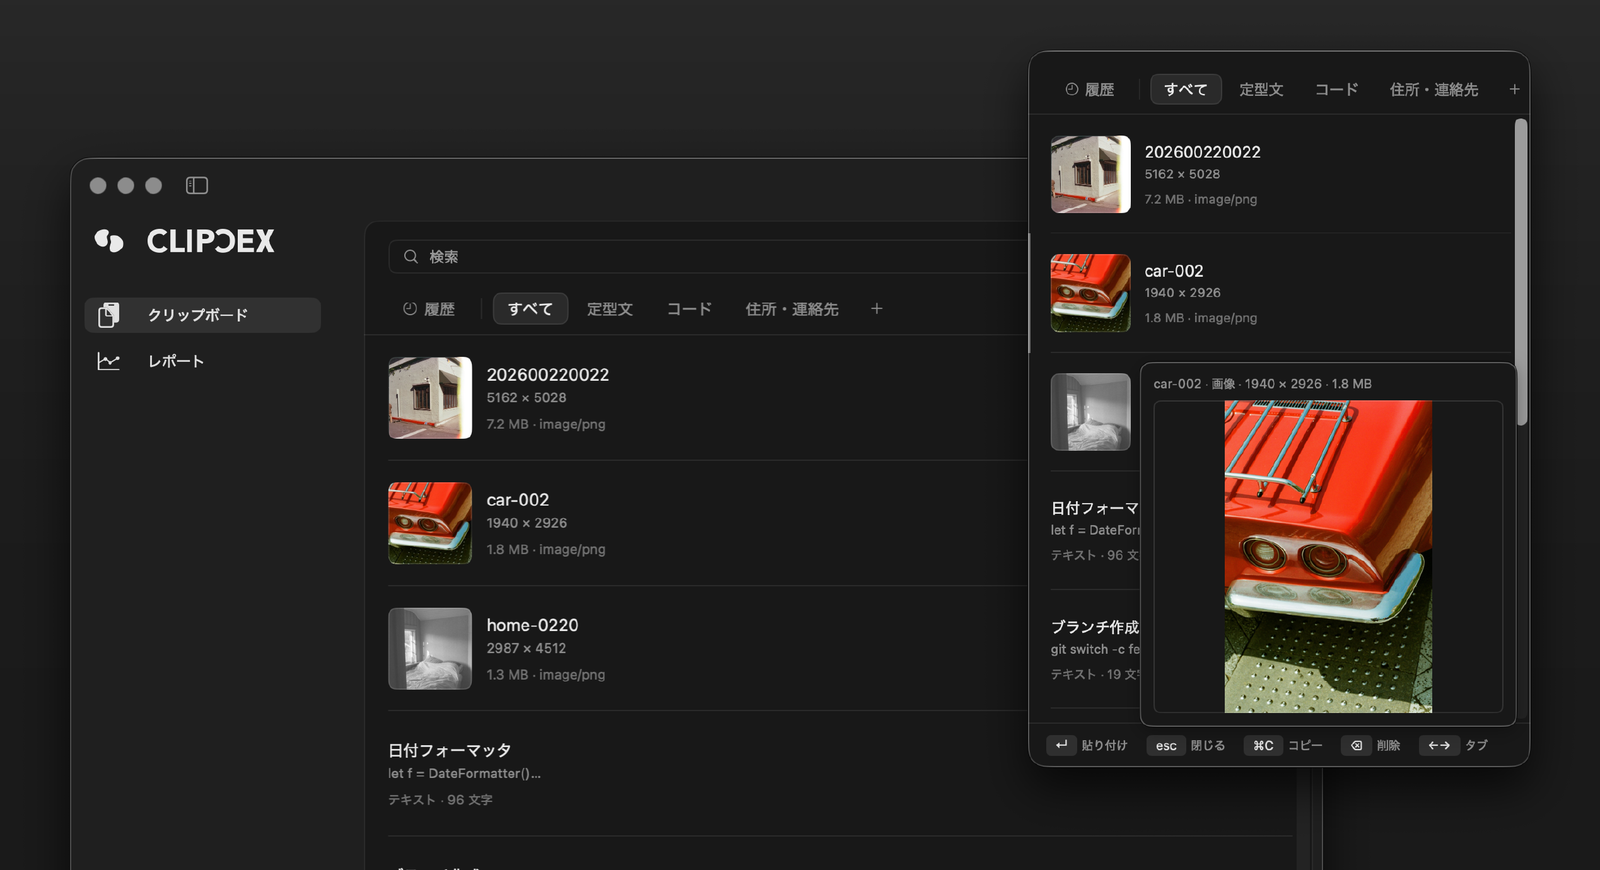
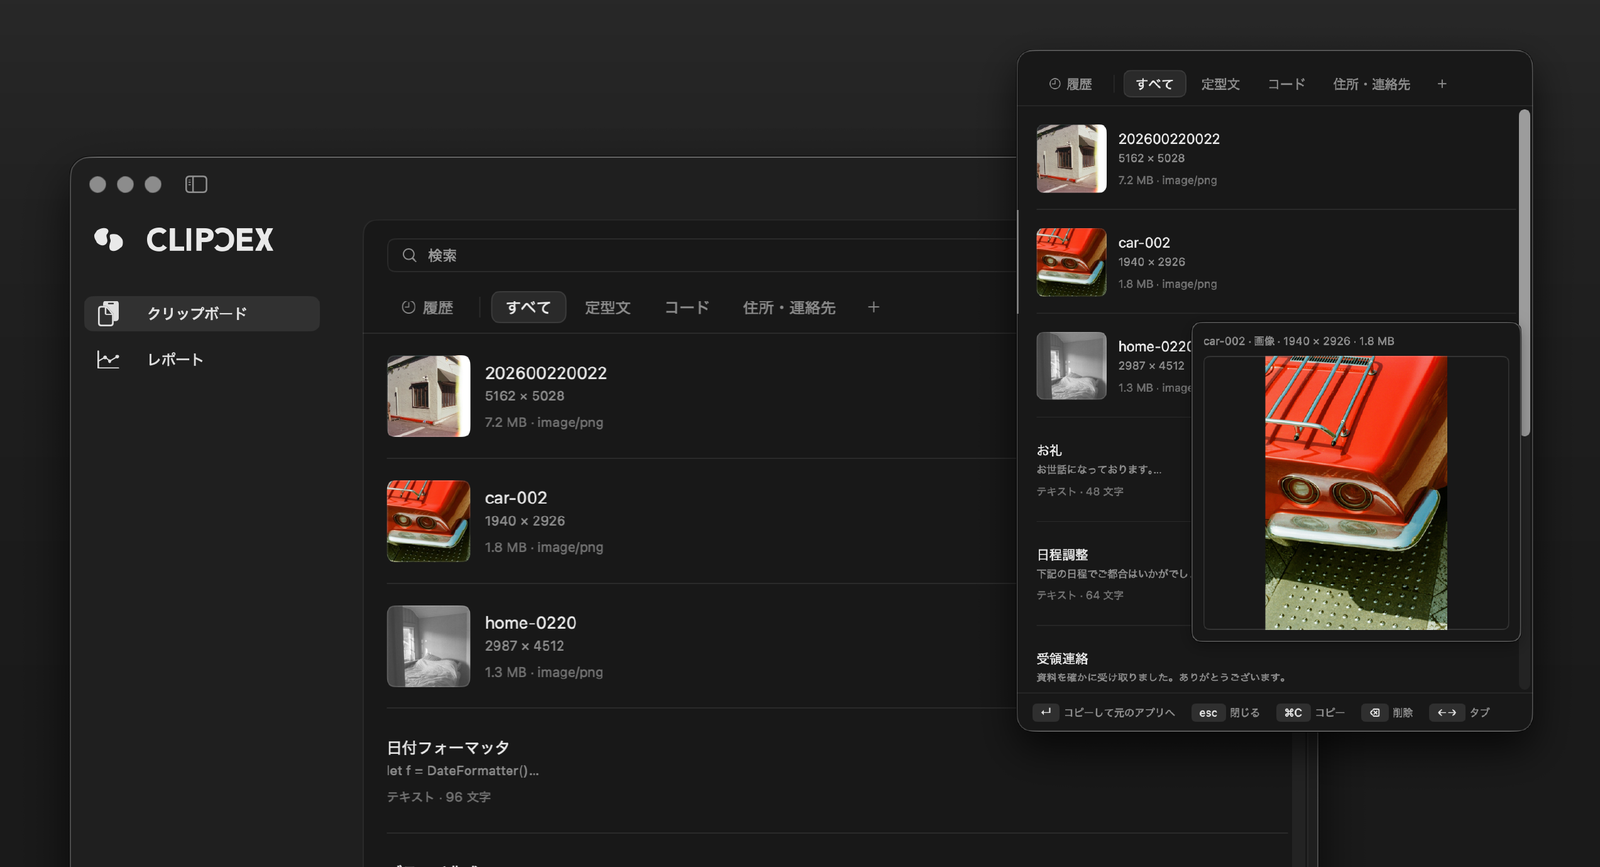
feat(lp): クイックパネルのスクショを案 A のフッター文言に差し替える
旧スクショのキーヒントは「⏎ 貼り付け」で、これは 2.4.5 案 A で
到達不能化した自動ペーストの文言だった。実装は「⏎ コピーして元のアプリへ」
なので、LP が存在しない挙動を写したままになっていた。

寸法が 1600x870 → 1600x867 に変わるので、img の height も合わせて
予約寸法を保つ (レイアウトシフトを出さない)。

あわせて Codex の agmsg フック設定 (.codex/、ローカル絶対パス入り) を
gitignore する。この repo は public + Pages の公開元なので、
コミットした瞬間に公開される前提で除外する。

diff --git a/index.html b/index.html
@@ -273,7 +273,7 @@
       </ul>
     </div>
     <div class="shot">
-      <img loading="lazy" src="/assets/05-picker.png" width="1600" height="870"
+      <img loading="lazy" src="/assets/05-picker.png" width="1600" height="867"
            alt="ショートカットキーで呼び出したクイックパネル。画像とテキストが並び、選択中の画像がプレビュー表示されている。">
     </div>
   </div>
